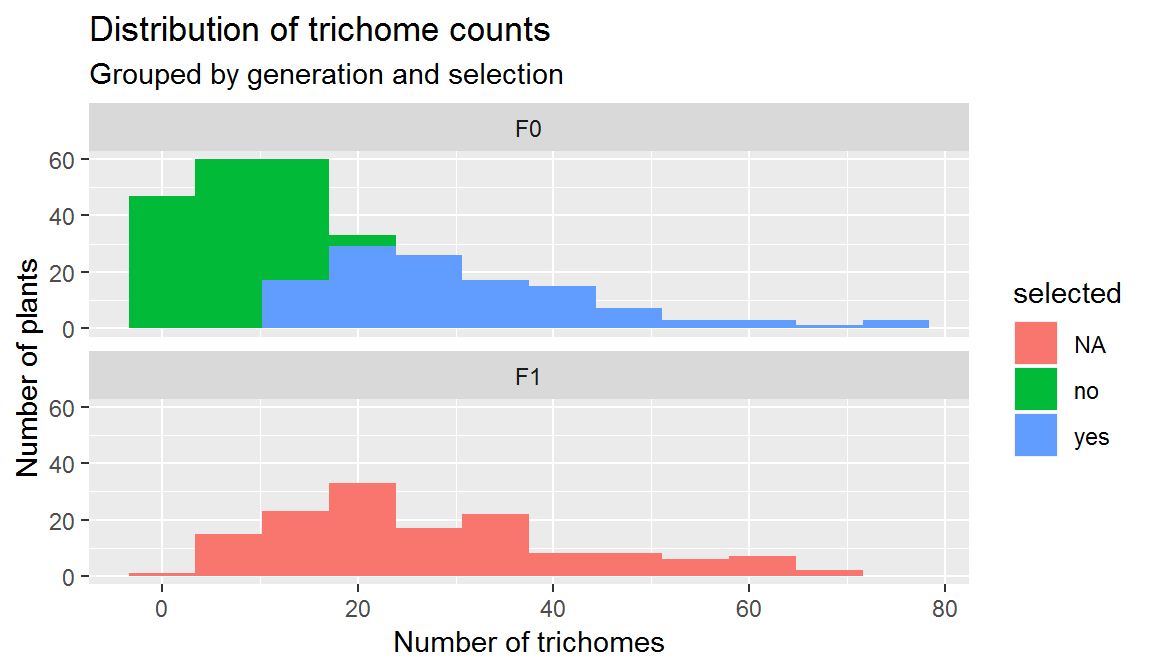
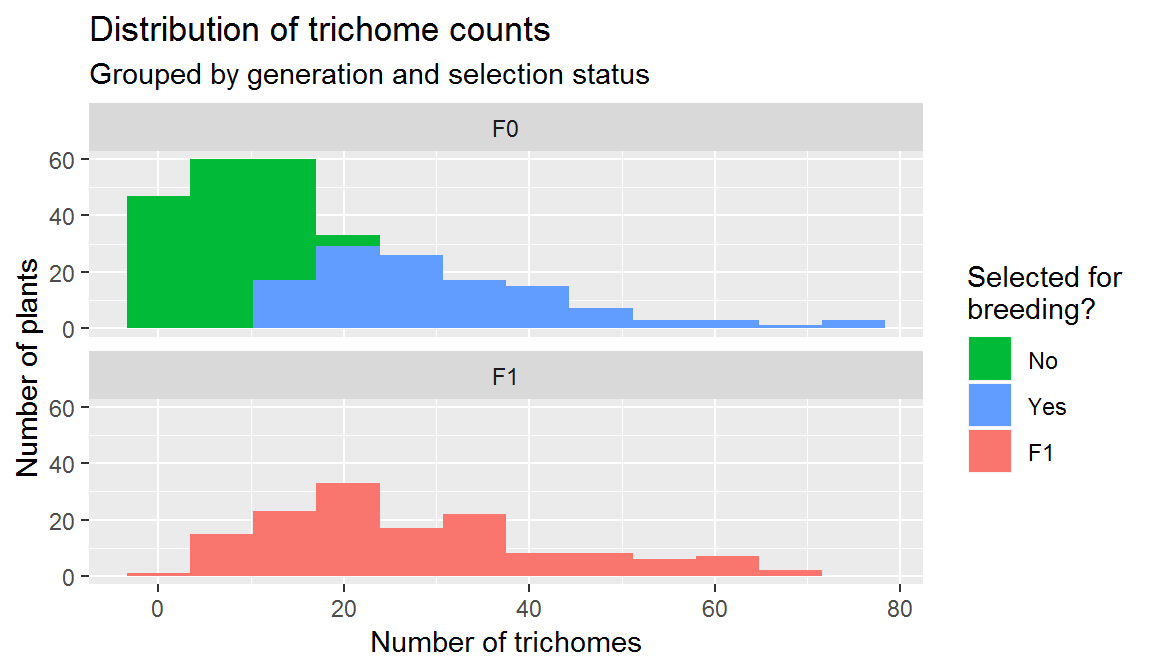
Updates

diff --git a/lab2.html b/lab2.html
@@ -325,45 +325,41 @@ Does the number of trichomes on Fast Plants (<i>Brassica rapa</i>) plants vary b
 <p>To answer the question, you should:</p>
 <ol style="list-style-type: decimal">
 <li>Create a new RStudio project.</li>
+<li>Install the <strong>tidyverse</strong> package.</li>
 <li>Copy the code from the <a href="lab1_beak_length_script.html">Data Lab 1 beak length script →</a> [click link] and paste it into a new script.</li>
 <li>Modify the script to use the fast plant data <code>&quot;fastplant_data.xlsx&quot;</code>.</li>
-<li>Plot a histogram for each generation (F0 and F1) but color the histogram based on whether the plants were selected for breeding or not. For help, see <a href="#a-new-variation">A new variation</a> below.</li>
+<li>Plot a histogram for each generation (F0 and F1), but instead of setting the fill color to vary by generation, set it to vary by whether or not the plants were selected for breeding. For help, see <a href="#a-new-variation">A new variation</a> below.</li>
 </ol>
 <p>For a reminder on how to perform the analysis steps, see <a href="lab1_4_bluestem.html">Data Lab 1, Part 4. Bluestem Data Assignment →</a></p>
-<p>When you are finished, paste your figures into a Word document, add figure legends and a Results paragraph, and upload it to the D2L assignment “Data Lab 2”.</p>
+<p>When you are finished:</p>
+<ul>
+<li>Paste your figures into a Word document, add figure legends and a Results paragraph, and upload it to the D2L assignment “Data Lab 2”.</li>
+<li>Save your project for later use by uploading the project folder onto OneDrive <a href="lab1_4_bluestem.html#saving-your-files">instructions</a>.</li>
+</ul>
 </div>
 <div id="a-new-variation" class="section level4">
 <h4>A new variation</h4>
 <p>In the finch and bluestem analyses, you created a histogram for each group and also colored the histograms differently for each group.</p>
 <p>In theory, there is no reason you can’t use a different variable to color the histograms.</p>
 <p>For example, here is the finch data colored by <code>sex</code>:</p>
-<div class="sourceCode" id="cb1"><pre class="sourceCode r"><code class="sourceCode r"><a class="sourceLine" id="cb1-1" data-line-number="1"><span class="co"># histogram of beak length, grouped by survival, colored by sex</span></a>
-<a class="sourceLine" id="cb1-2" data-line-number="2"><span class="kw">ggplot</span>(</a>
-<a class="sourceLine" id="cb1-3" data-line-number="3">  <span class="dt">data =</span> finches,</a>
-<a class="sourceLine" id="cb1-4" data-line-number="4">  <span class="dt">mapping =</span> <span class="kw">aes</span>(<span class="dt">x =</span> beak_length,</a>
-<a class="sourceLine" id="cb1-5" data-line-number="5">                <span class="dt">fill =</span> sex)           <span class="co"># color the boxes by gender</span></a>
-<a class="sourceLine" id="cb1-6" data-line-number="6">) <span class="op">+</span></a>
-<a class="sourceLine" id="cb1-7" data-line-number="7"><span class="st">  </span><span class="kw">geom_histogram</span>(<span class="dt">bins =</span> <span class="dv">14</span>) <span class="op">+</span></a>
-<a class="sourceLine" id="cb1-8" data-line-number="8"><span class="st">  </span><span class="kw">facet_wrap</span>(<span class="op">~</span><span class="st"> </span>outcome, <span class="dt">ncol =</span> <span class="dv">1</span>) <span class="op">+</span><span class="st">   </span><span class="co"># put each outcome in its own panel</span></a>
-<a class="sourceLine" id="cb1-9" data-line-number="9"><span class="st">  </span><span class="kw">labs</span>(</a>
-<a class="sourceLine" id="cb1-10" data-line-number="10">    <span class="dt">title =</span> <span class="st">&quot;Distribution of beak lengths&quot;</span>,</a>
-<a class="sourceLine" id="cb1-11" data-line-number="11">    <span class="dt">subtitle =</span> <span class="st">&quot;Grouped by bird sex and survival outcome&quot;</span>,</a>
-<a class="sourceLine" id="cb1-12" data-line-number="12">    <span class="dt">x =</span> <span class="st">&quot;Beak Length (mm)&quot;</span>,</a>
-<a class="sourceLine" id="cb1-13" data-line-number="13">    <span class="dt">y =</span> <span class="st">&quot;Number of Birds&quot;</span></a>
-<a class="sourceLine" id="cb1-14" data-line-number="14">  )</a></code></pre></div>
 <p><img src="lab2_files/figure-html/finch-sex-histogram-1.png" width="576" style="display: block; margin: auto;" /></p>
 <p>For <strong>your</strong> current assignment, put each generation of plants on its own panel, and color the columns by whether the plants were selected for breeding or not.</p>
 <p>For example:</p>
-<div class="sourceCode" id="cb2"><pre class="sourceCode r"><code class="sourceCode r"><a class="sourceLine" id="cb2-1" data-line-number="1"><span class="kw">read_excel</span>(<span class="st">&quot;fastplant_data.xlsx&quot;</span>) <span class="op">%&gt;%</span><span class="st"> </span></a>
-<a class="sourceLine" id="cb2-2" data-line-number="2"><span class="st">  </span><span class="kw">ggplot</span>(<span class="kw">aes</span>(trichome_number)) <span class="op">+</span></a>
-<a class="sourceLine" id="cb2-3" data-line-number="3"><span class="st">  </span><span class="kw">geom_histogram</span>(<span class="kw">aes</span>(<span class="dt">fill =</span> selected), <span class="dt">bins =</span> <span class="dv">12</span>) <span class="op">+</span></a>
-<a class="sourceLine" id="cb2-4" data-line-number="4"><span class="st">  </span><span class="kw">facet_wrap</span>(<span class="op">~</span><span class="st"> </span>generation, <span class="dt">ncol =</span> <span class="dv">1</span>) <span class="op">+</span></a>
-<a class="sourceLine" id="cb2-5" data-line-number="5"><span class="st">  </span><span class="kw">labs</span>(</a>
-<a class="sourceLine" id="cb2-6" data-line-number="6">    <span class="dt">title =</span> <span class="st">&quot;Distribution of trichome counts&quot;</span>,</a>
-<a class="sourceLine" id="cb2-7" data-line-number="7">    <span class="dt">subtitle =</span> <span class="st">&quot;Grouped by generation and selection&quot;</span>,</a>
-<a class="sourceLine" id="cb2-8" data-line-number="8">    <span class="dt">x =</span> <span class="st">&quot;Number of trichomes&quot;</span>,</a>
-<a class="sourceLine" id="cb2-9" data-line-number="9">    <span class="dt">y =</span> <span class="st">&quot;Number of plants&quot;</span></a>
-<a class="sourceLine" id="cb2-10" data-line-number="10">  )</a></code></pre></div>
+<div class="sourceCode" id="cb1"><pre class="sourceCode r"><code class="sourceCode r"><a class="sourceLine" id="cb1-1" data-line-number="1"><span class="kw">read_excel</span>(<span class="st">&quot;fastplant_data.xlsx&quot;</span>) <span class="op">%&gt;%</span><span class="st"> </span></a>
+<a class="sourceLine" id="cb1-2" data-line-number="2"><span class="st">  </span><span class="kw">ggplot</span>(<span class="kw">aes</span>(trichome_number)) <span class="op">+</span></a>
+<a class="sourceLine" id="cb1-3" data-line-number="3"><span class="st">  </span><span class="kw">geom_histogram</span>(<span class="kw">aes</span>(<span class="dt">fill =</span> selected), <span class="dt">bins =</span> <span class="dv">12</span>) <span class="op">+</span></a>
+<a class="sourceLine" id="cb1-4" data-line-number="4"><span class="st">  </span><span class="kw">facet_wrap</span>(<span class="op">~</span><span class="st"> </span>generation, <span class="dt">ncol =</span> <span class="dv">1</span>) <span class="op">+</span></a>
+<a class="sourceLine" id="cb1-5" data-line-number="5"><span class="st">  </span><span class="kw">scale_fill_discrete</span>(</a>
+<a class="sourceLine" id="cb1-6" data-line-number="6">    <span class="dt">name =</span> <span class="st">&quot;Selected for</span><span class="ch">\n</span><span class="st">breeding?&quot;</span>,</a>
+<a class="sourceLine" id="cb1-7" data-line-number="7">    <span class="dt">breaks =</span> <span class="kw">c</span>(<span class="st">&quot;no&quot;</span>, <span class="st">&quot;yes&quot;</span>, <span class="st">&quot;NA&quot;</span>),</a>
+<a class="sourceLine" id="cb1-8" data-line-number="8">    <span class="dt">labels =</span> <span class="kw">c</span>(<span class="st">&quot;No&quot;</span>, <span class="st">&quot;Yes&quot;</span>, <span class="st">&quot;F1&quot;</span>)</a>
+<a class="sourceLine" id="cb1-9" data-line-number="9">  ) <span class="op">+</span></a>
+<a class="sourceLine" id="cb1-10" data-line-number="10"><span class="st">  </span><span class="kw">labs</span>(</a>
+<a class="sourceLine" id="cb1-11" data-line-number="11">    <span class="dt">title =</span> <span class="st">&quot;Distribution of trichome counts&quot;</span>,</a>
+<a class="sourceLine" id="cb1-12" data-line-number="12">    <span class="dt">subtitle =</span> <span class="st">&quot;Grouped by generation and selection status&quot;</span>,</a>
+<a class="sourceLine" id="cb1-13" data-line-number="13">    <span class="dt">x =</span> <span class="st">&quot;Number of trichomes&quot;</span>,</a>
+<a class="sourceLine" id="cb1-14" data-line-number="14">    <span class="dt">y =</span> <span class="st">&quot;Number of plants&quot;</span></a>
+<a class="sourceLine" id="cb1-15" data-line-number="15">  )</a></code></pre></div>
 <p><img src="lab2_files/figure-html/fast-plant-histogram-1.png" width="576" style="display: block; margin: auto;" /></p>
 </div>
 
